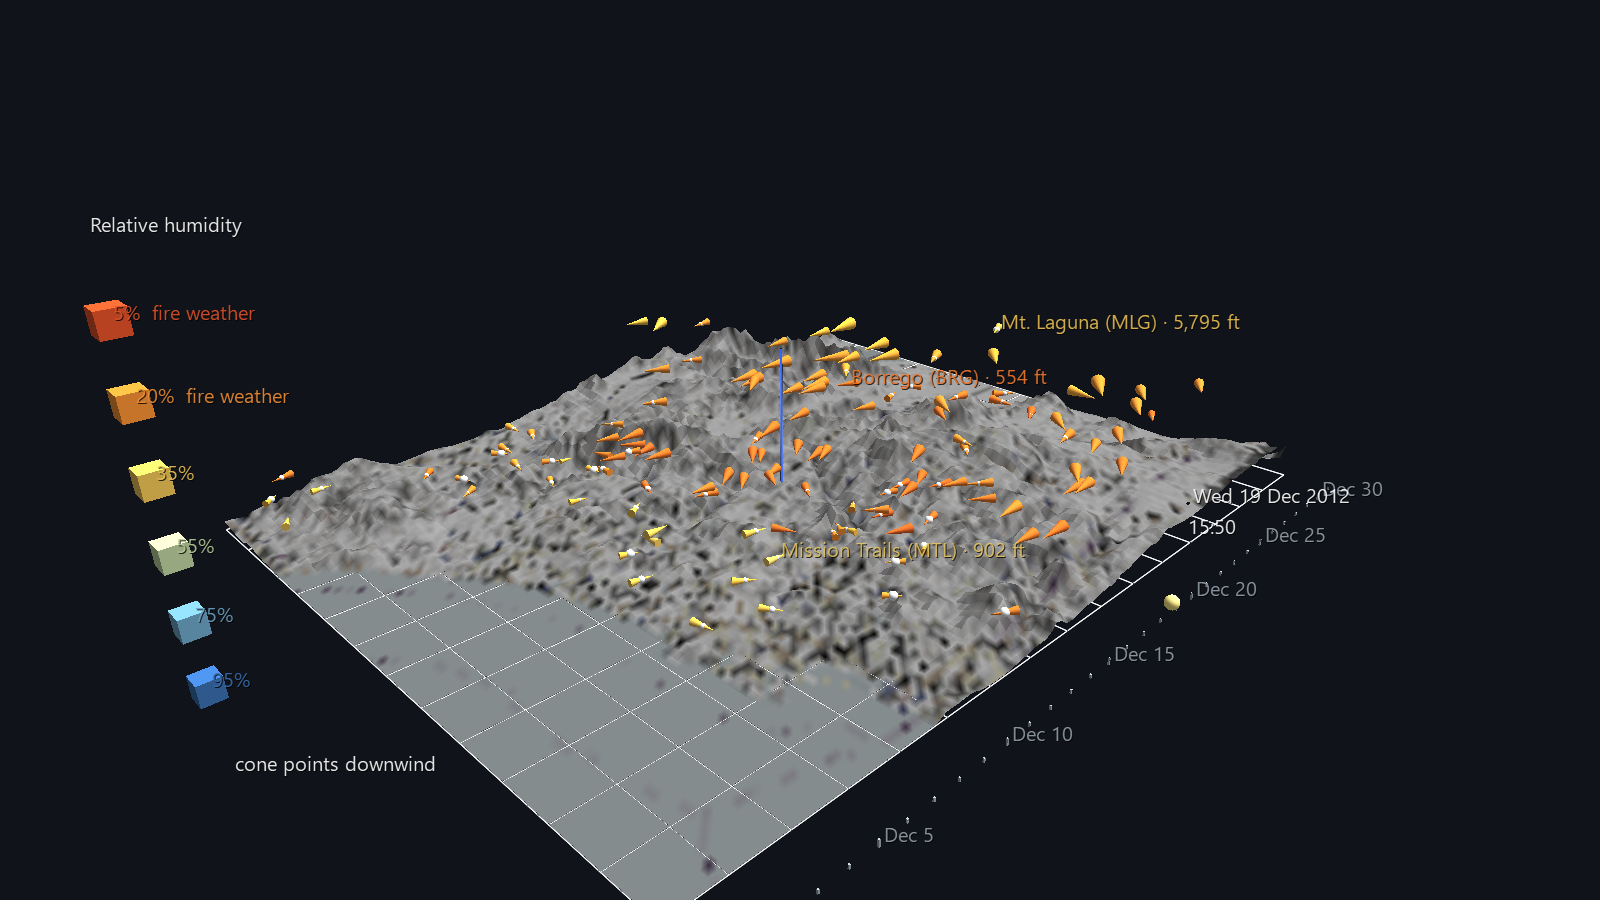
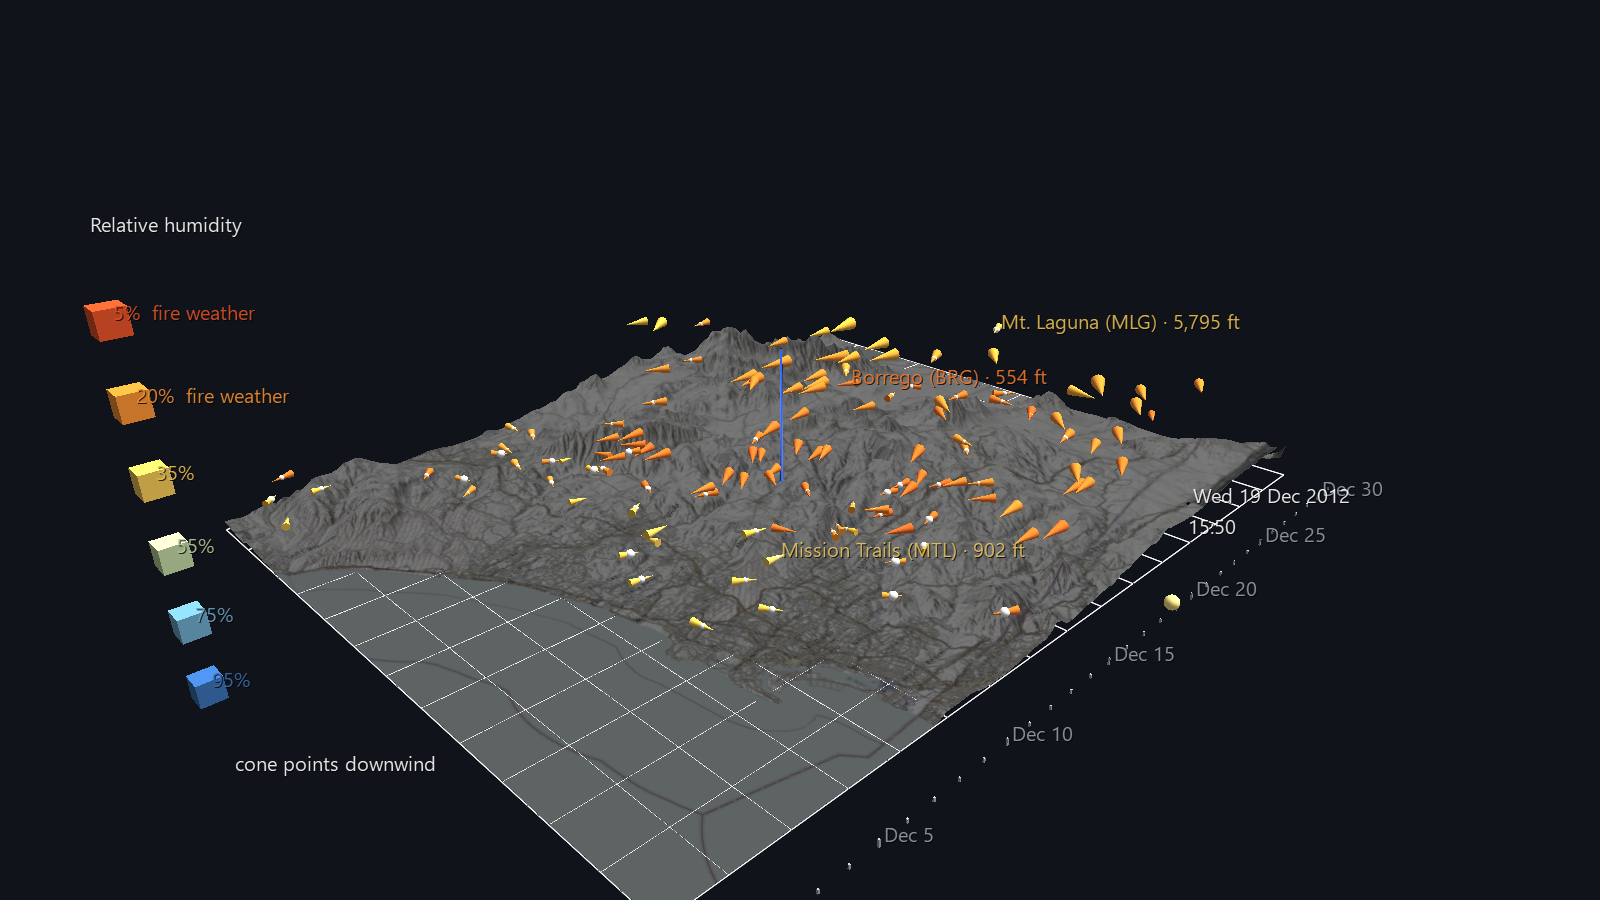
Drape the terrain map on the Santa Ana Wind surface as a texture
The mesh was coloured per-vertex, which caps the picture at one pixel
per lattice point: 11,400 samples of a 2,391 px map, with the rest
discarded. It now carries the image as a texture instead, so ridge
detail, roads and the coastline read crisply.

The lattice stays at 120 columns — Jeff's call. The texture is a
sharpness win here, not an excuse to thin the relief. Vertex colours
are still written into the file as the fallback for a scene opened
without its media/ folder.

No geometry changed: still 11,880 nodes, no station at or below the
terrain, tightest gap 8.14 world units, exaggerations 15x stations /
6x terrain.

Changed region(s): [[0.125, 0.3733, 0.7812, 1.0]]

diff --git a/examples/Santa_Ana_Wind_Example/build_santa_ana_scene.py b/examples/Santa_Ana_Wind_Example/build_santa_ana_scene.py
@@ -570,8 +570,17 @@ def build_terrain(sb: SceneBuilder, layout: Layout, dem, dem_origin,
     cols, rows = len(lons), len(lats)
     sz = surface_scale_z(layout)
 
+    # A Surface parent with a texture_id drapes the image across its lattice;
+    # without one the mesh interpolates the children's vertex colours. The
+    # texture is far better here — vertex colour caps the map at one pixel per
+    # vertex, which throws away all but 11,400 samples of a 2,391 px image,
+    # while the texture carries the whole thing over the same relief. Vertex
+    # colours are still written as the fallback for a scene opened without its
+    # media/ folder, and they are what a data layer (burn severity, land
+    # cover) would use instead.
+    textured = map_path is not None and map_path.is_file()
     tex = None
-    if map_path is not None and map_path.is_file():
+    if textured:
         from PIL import Image
         tex = np.asarray(Image.open(map_path).convert("RGB"))
 
@@ -579,7 +588,8 @@ def build_terrain(sb: SceneBuilder, layout: Layout, dem, dem_origin,
                     geometry=GEO_POINT, topo=TOPO_SURFACE,
                     translate_x=0.0, translate_y=0.0, translate_z=0.0,
                     scale_x=1.0, scale_y=1.0, scale_z=1.0,
-                    color_r=200, color_g=200, color_b=200, color_a=255,
+                    color_r=255, color_g=255, color_b=255, color_a=255,
+                    texture_id=1 if textured else 0,
                     text=f"Terrain · {SURFACE_VERT_EXAG:g}x vertical exaggeration")
 
     added = 1

diff --git a/examples/Santa_Ana_Wind_Example/README.md b/examples/Santa_Ana_Wind_Example/README.md
@@ -62,7 +62,15 @@ OpenTopoMap loses the coastline into the coastal plain.
 ## The terrain, and why two exaggerations
 
 The county is a real DEM surface, built from free AWS Terrarium elevation tiles
-and coloured per-vertex from the same imagery.
+with the terrain map **draped on it as a texture**.
+
+That last part matters for sharpness. A Surface parent can be coloured either
+per-vertex or by a texture, and per-vertex caps the picture at one pixel per
+lattice point — 11,400 samples of a 2,391-pixel-wide image, with the rest
+thrown away. The texture carries the whole image over the same relief, so the
+lattice density is chosen for the *landform* and the map stays crisp
+regardless. Vertex colours are still written into the file as a fallback for a
+scene opened without its `media/` folder.
 
 It is deliberately drawn at **6× vertical exaggeration while the stations sit
 at 15×**. One number for both does not work: at 15× the relief turns to spikes
